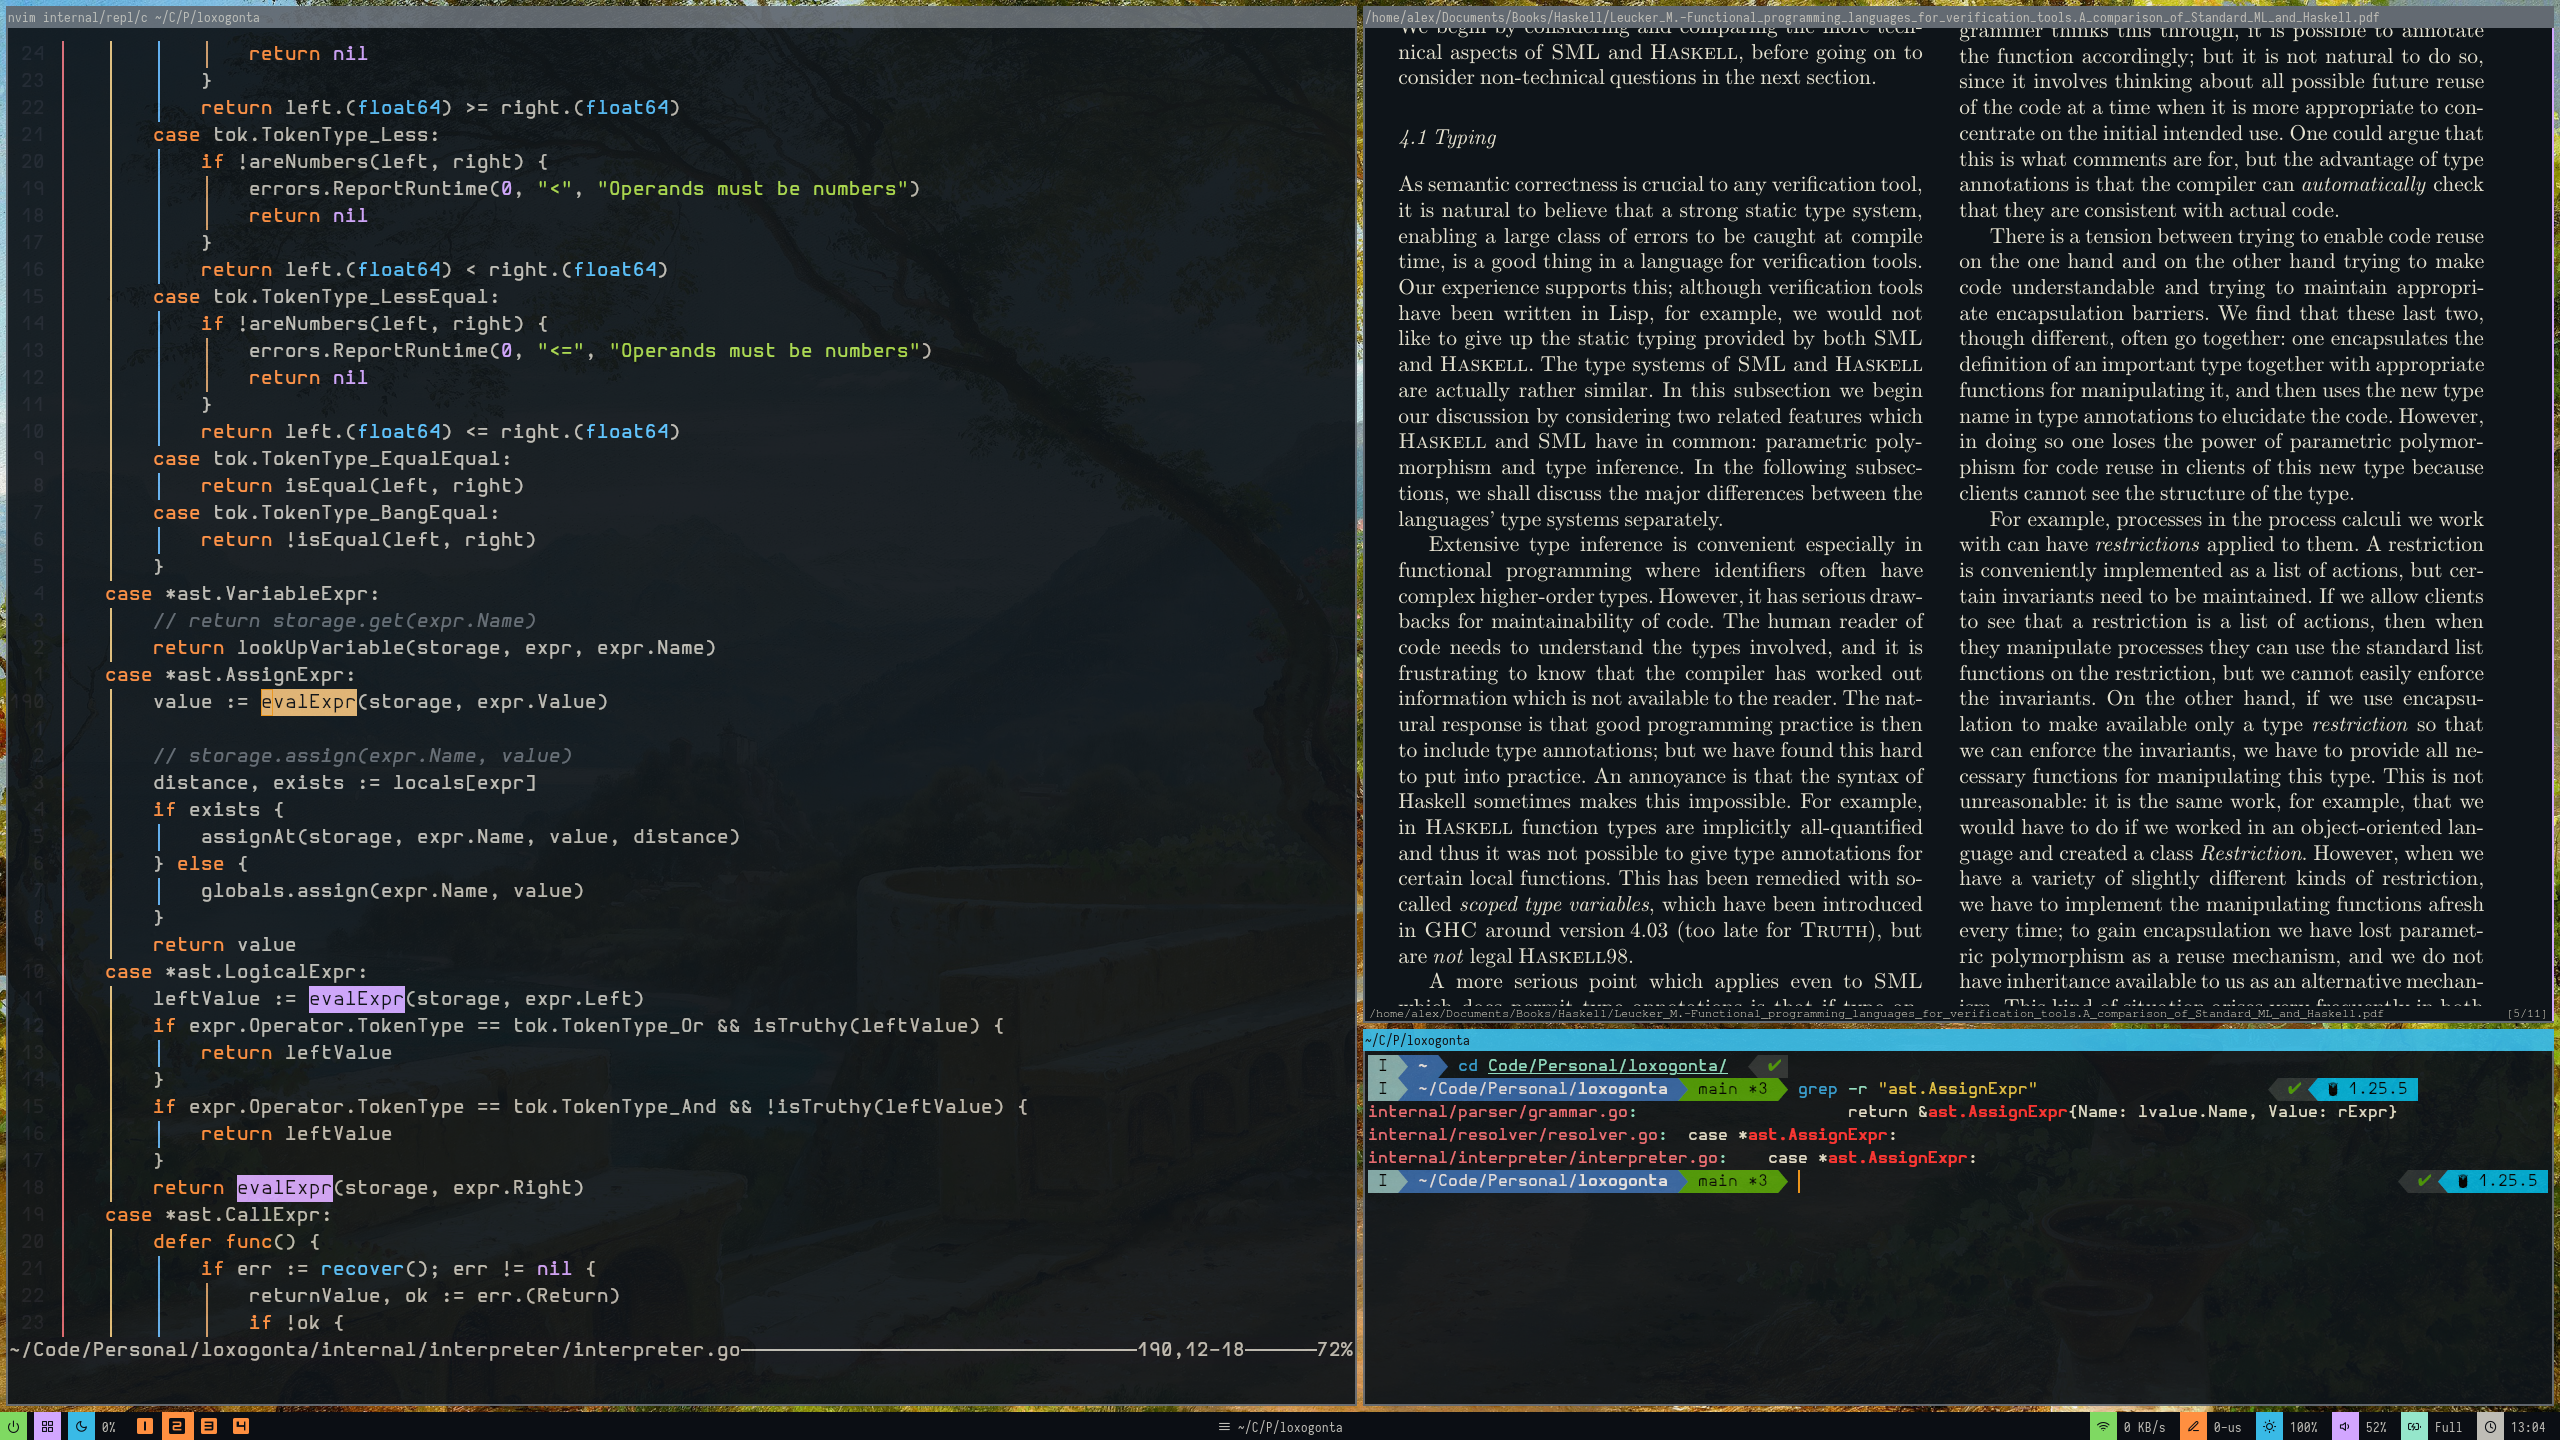
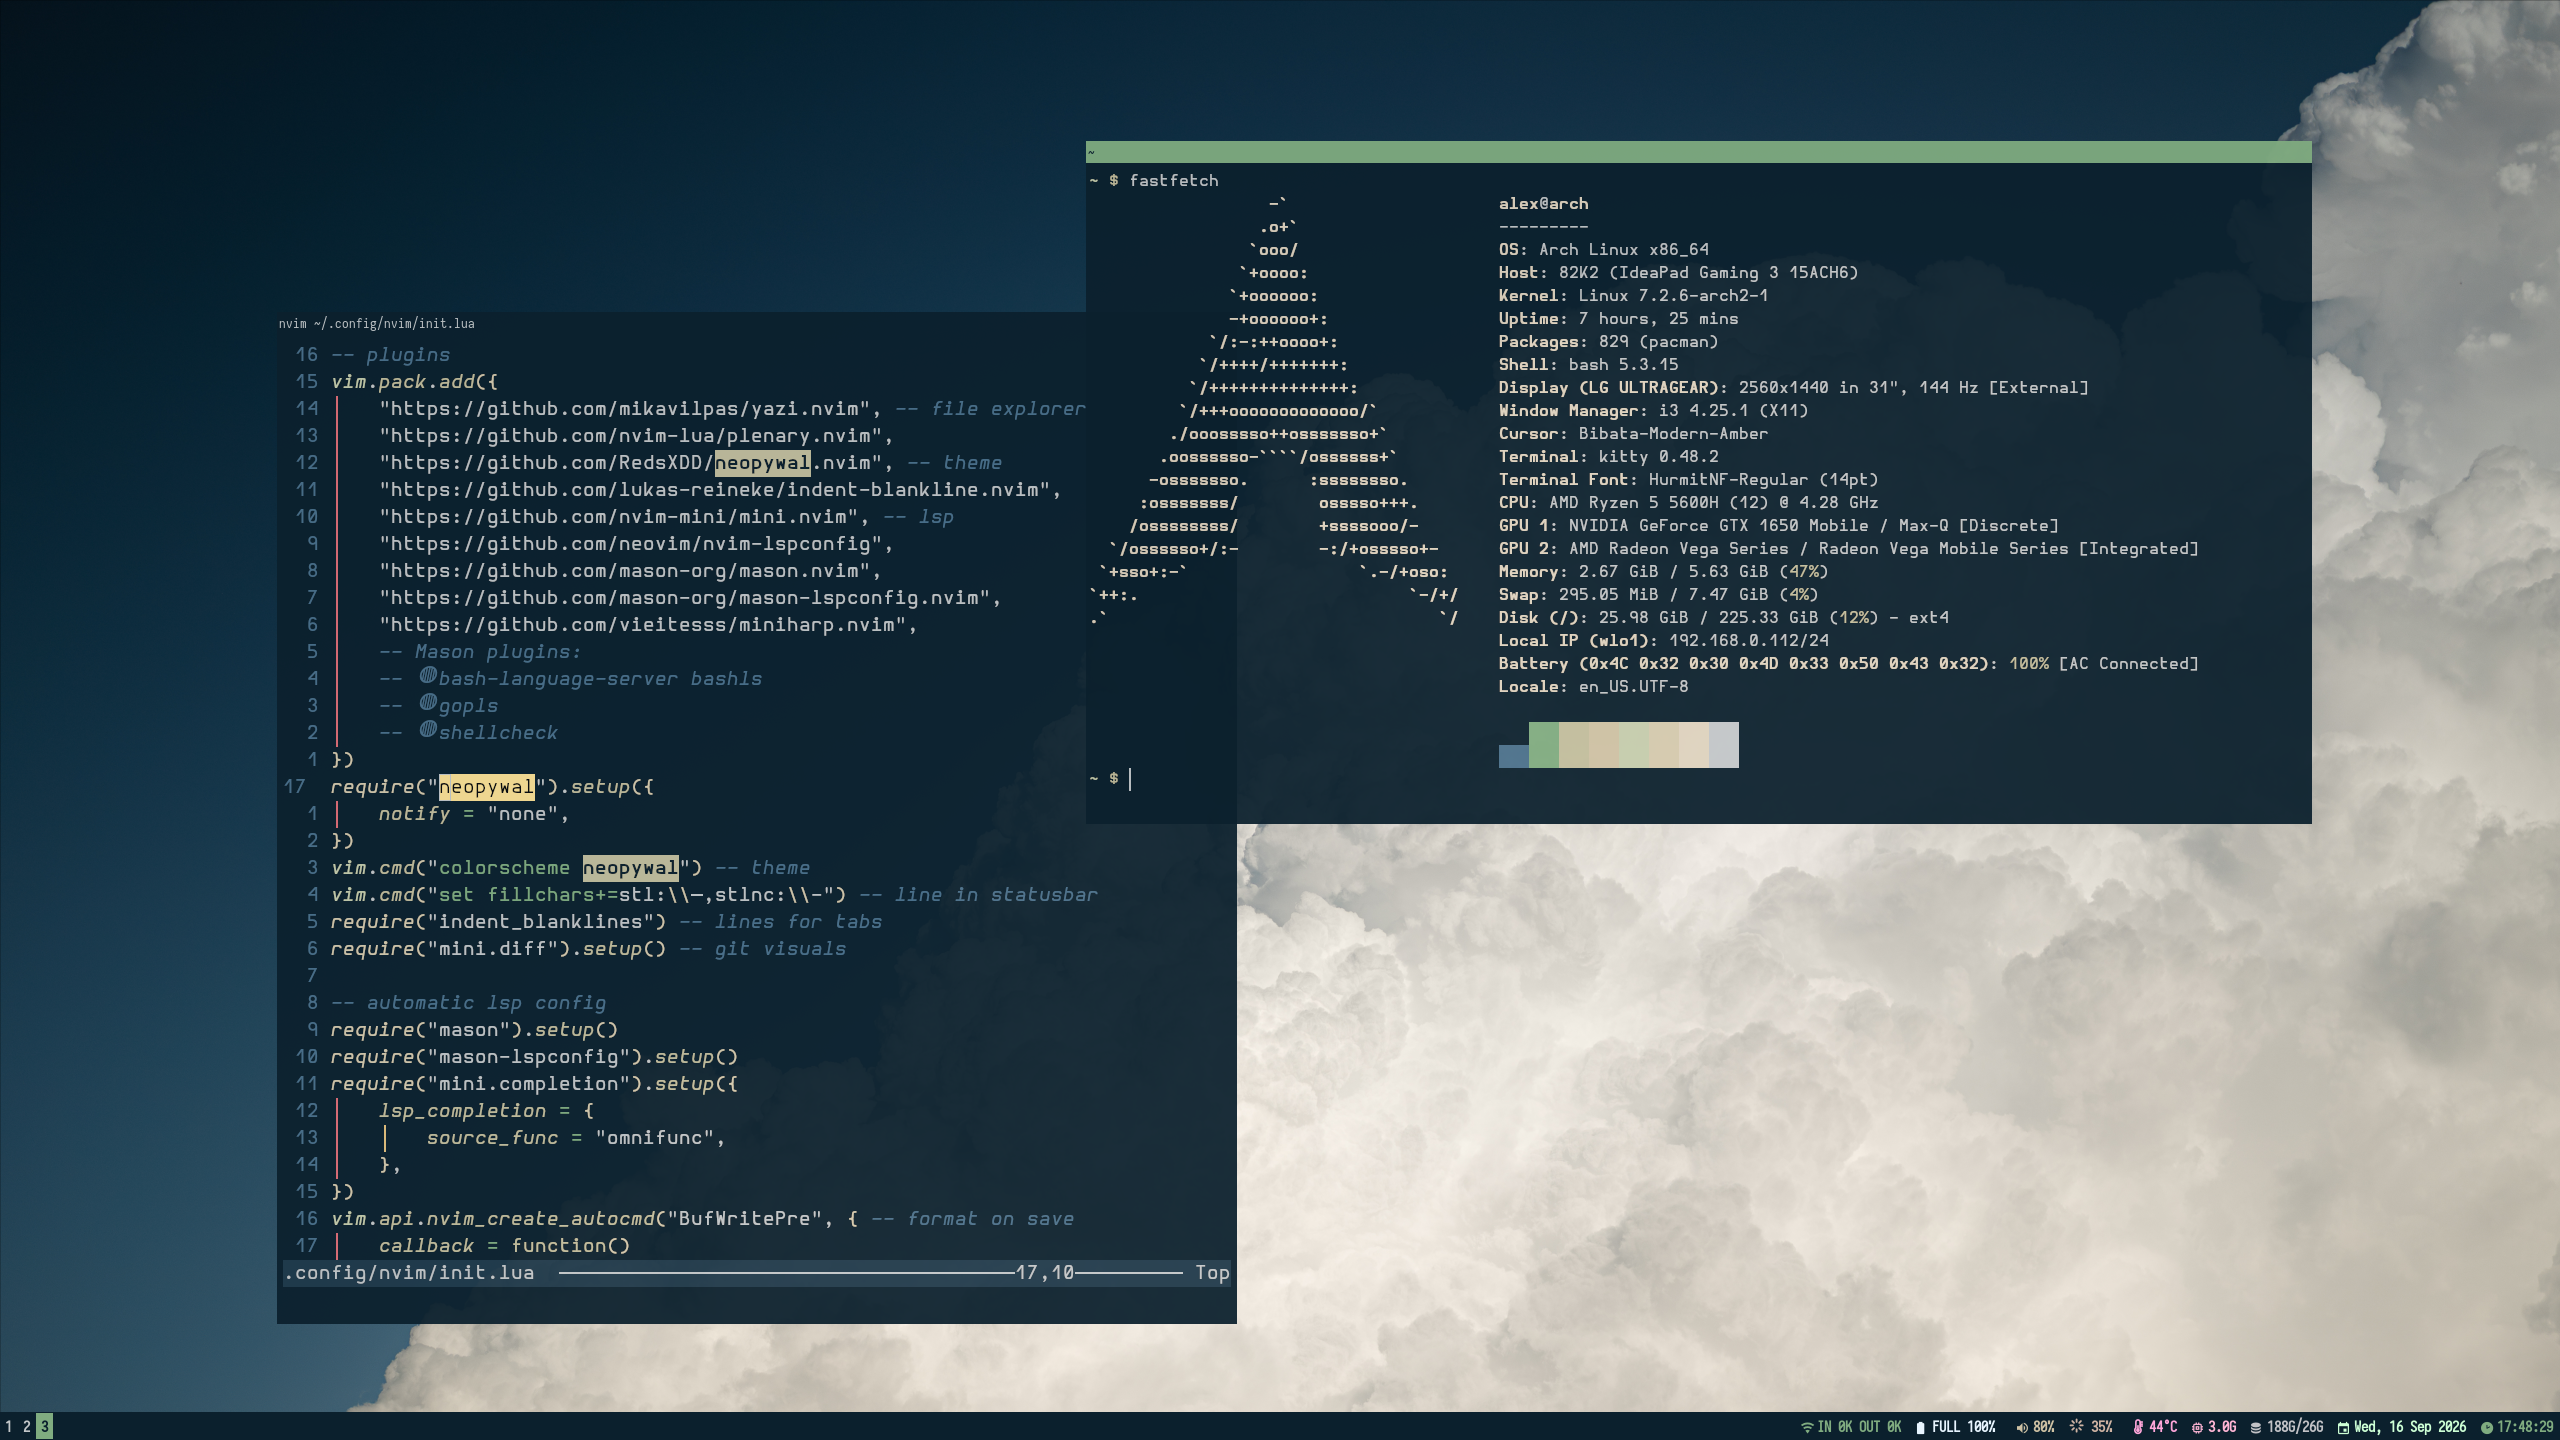
updated README (classic)

diff --git a/README.md b/README.md
@@ -1,7 +1,9 @@
 # .config
 
-<img src="./.examples/1.png" alt="example 1"/>
-<img src="./.examples/2.png" alt="example 2"/>
+<img src="./.examples/1.png" alt="example 1" width="400"/>
+<img src="./.examples/2.png" alt="example 2" width="400"/>
+<img src="./.examples/3.png" alt="example 3" width="400"/>
+<img src="./.examples/4.png" alt="example 4" width="400"/>
 
 ## Programs
 
